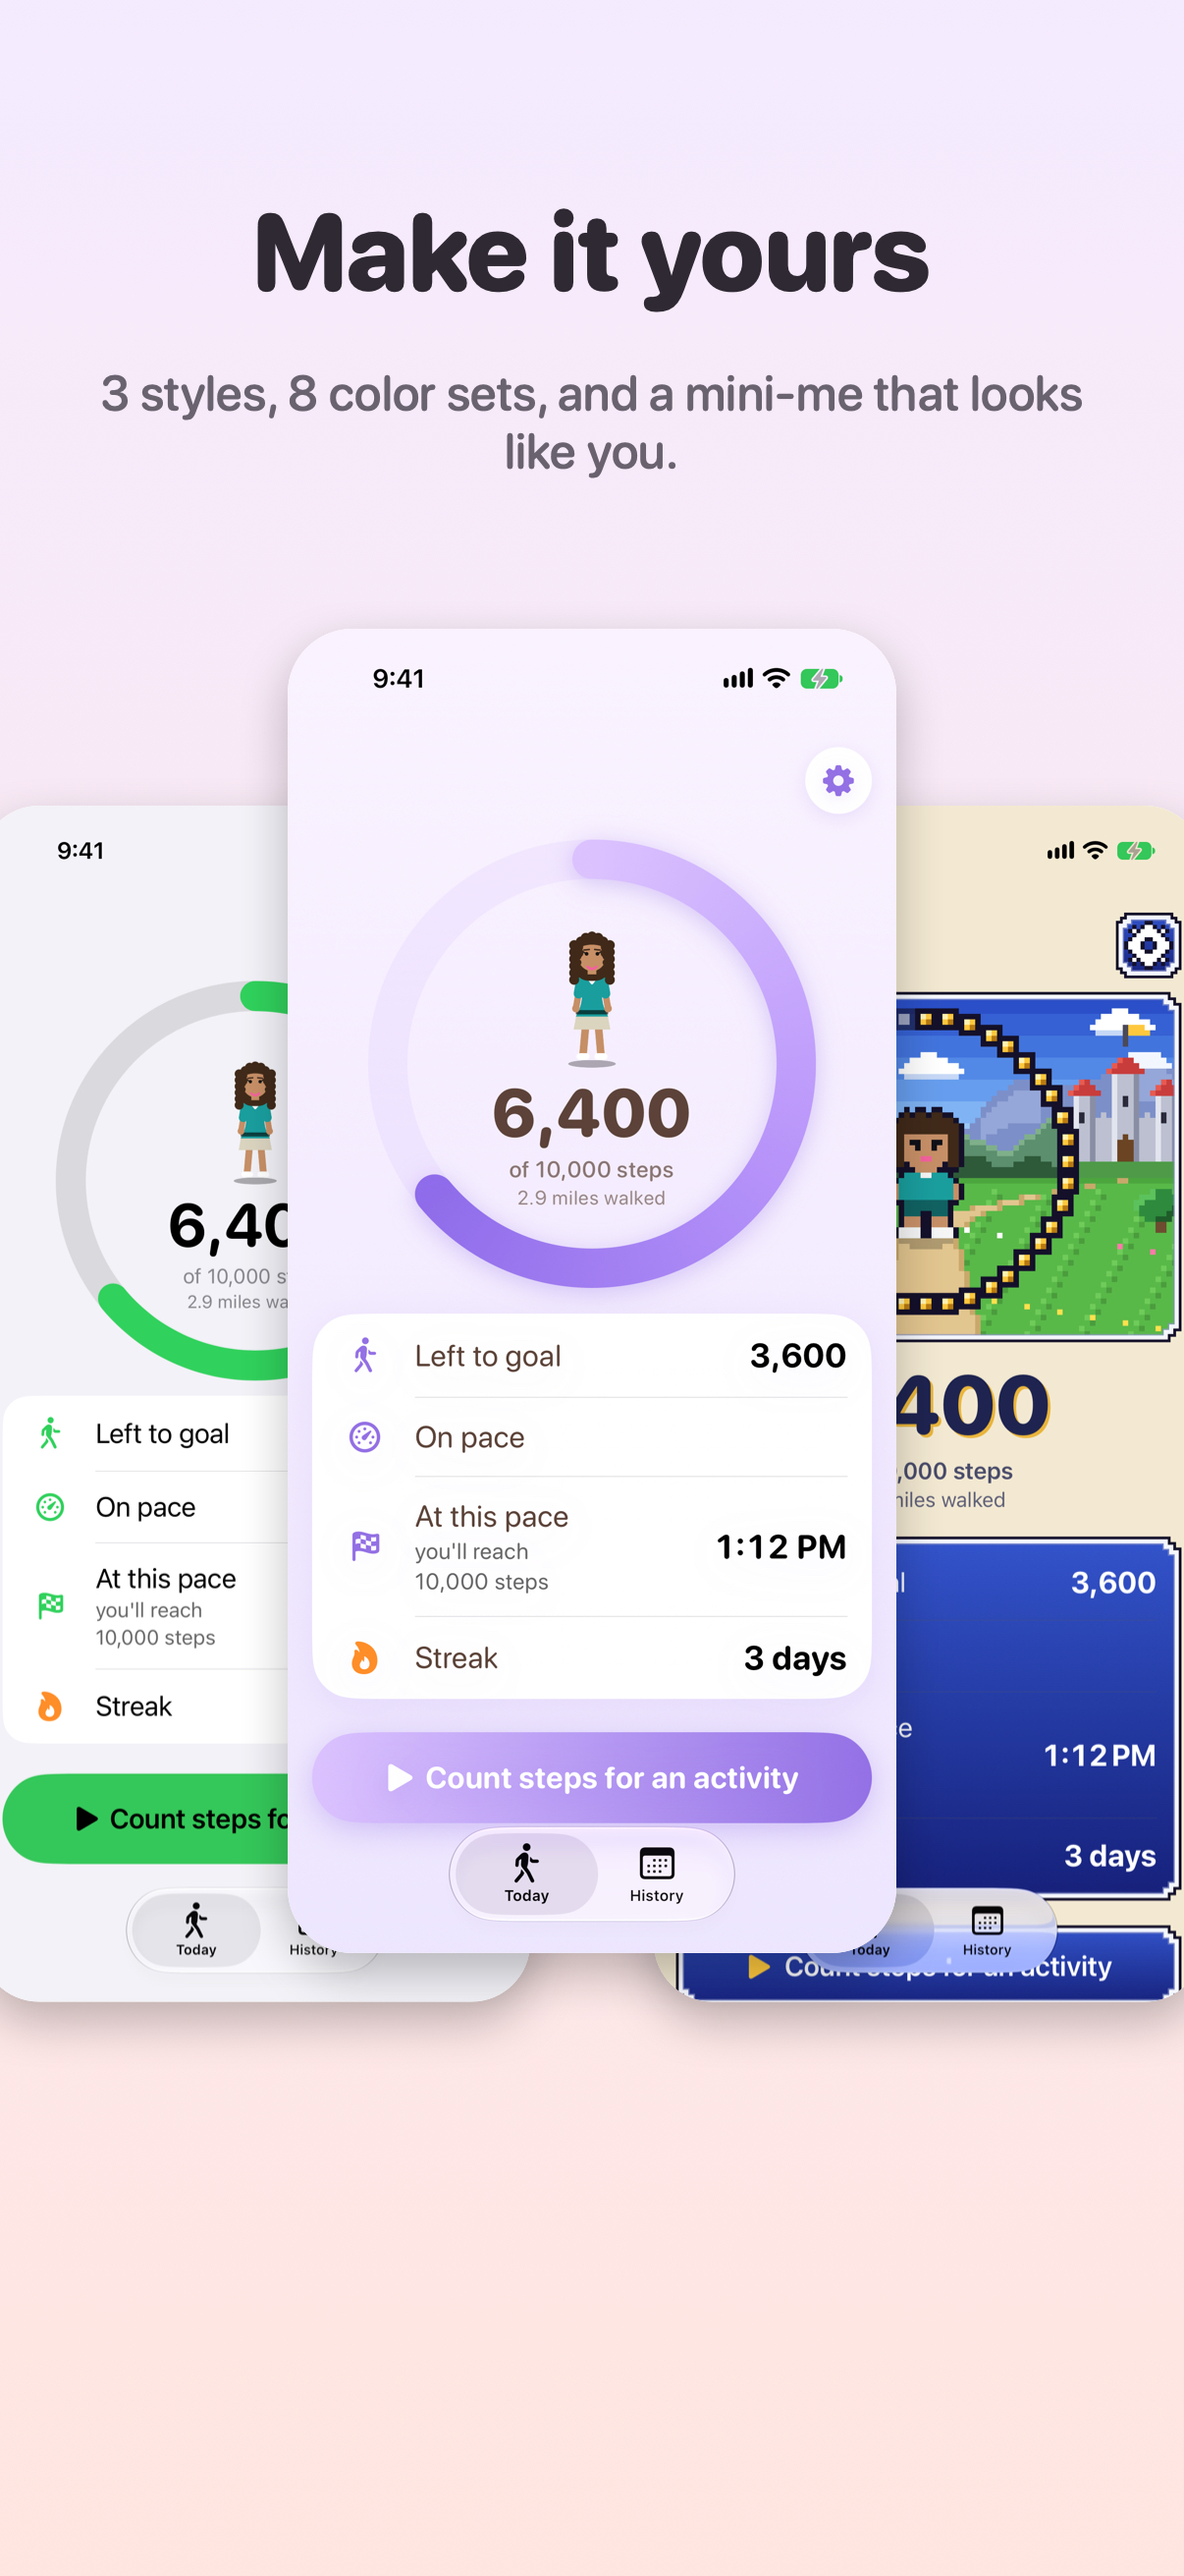
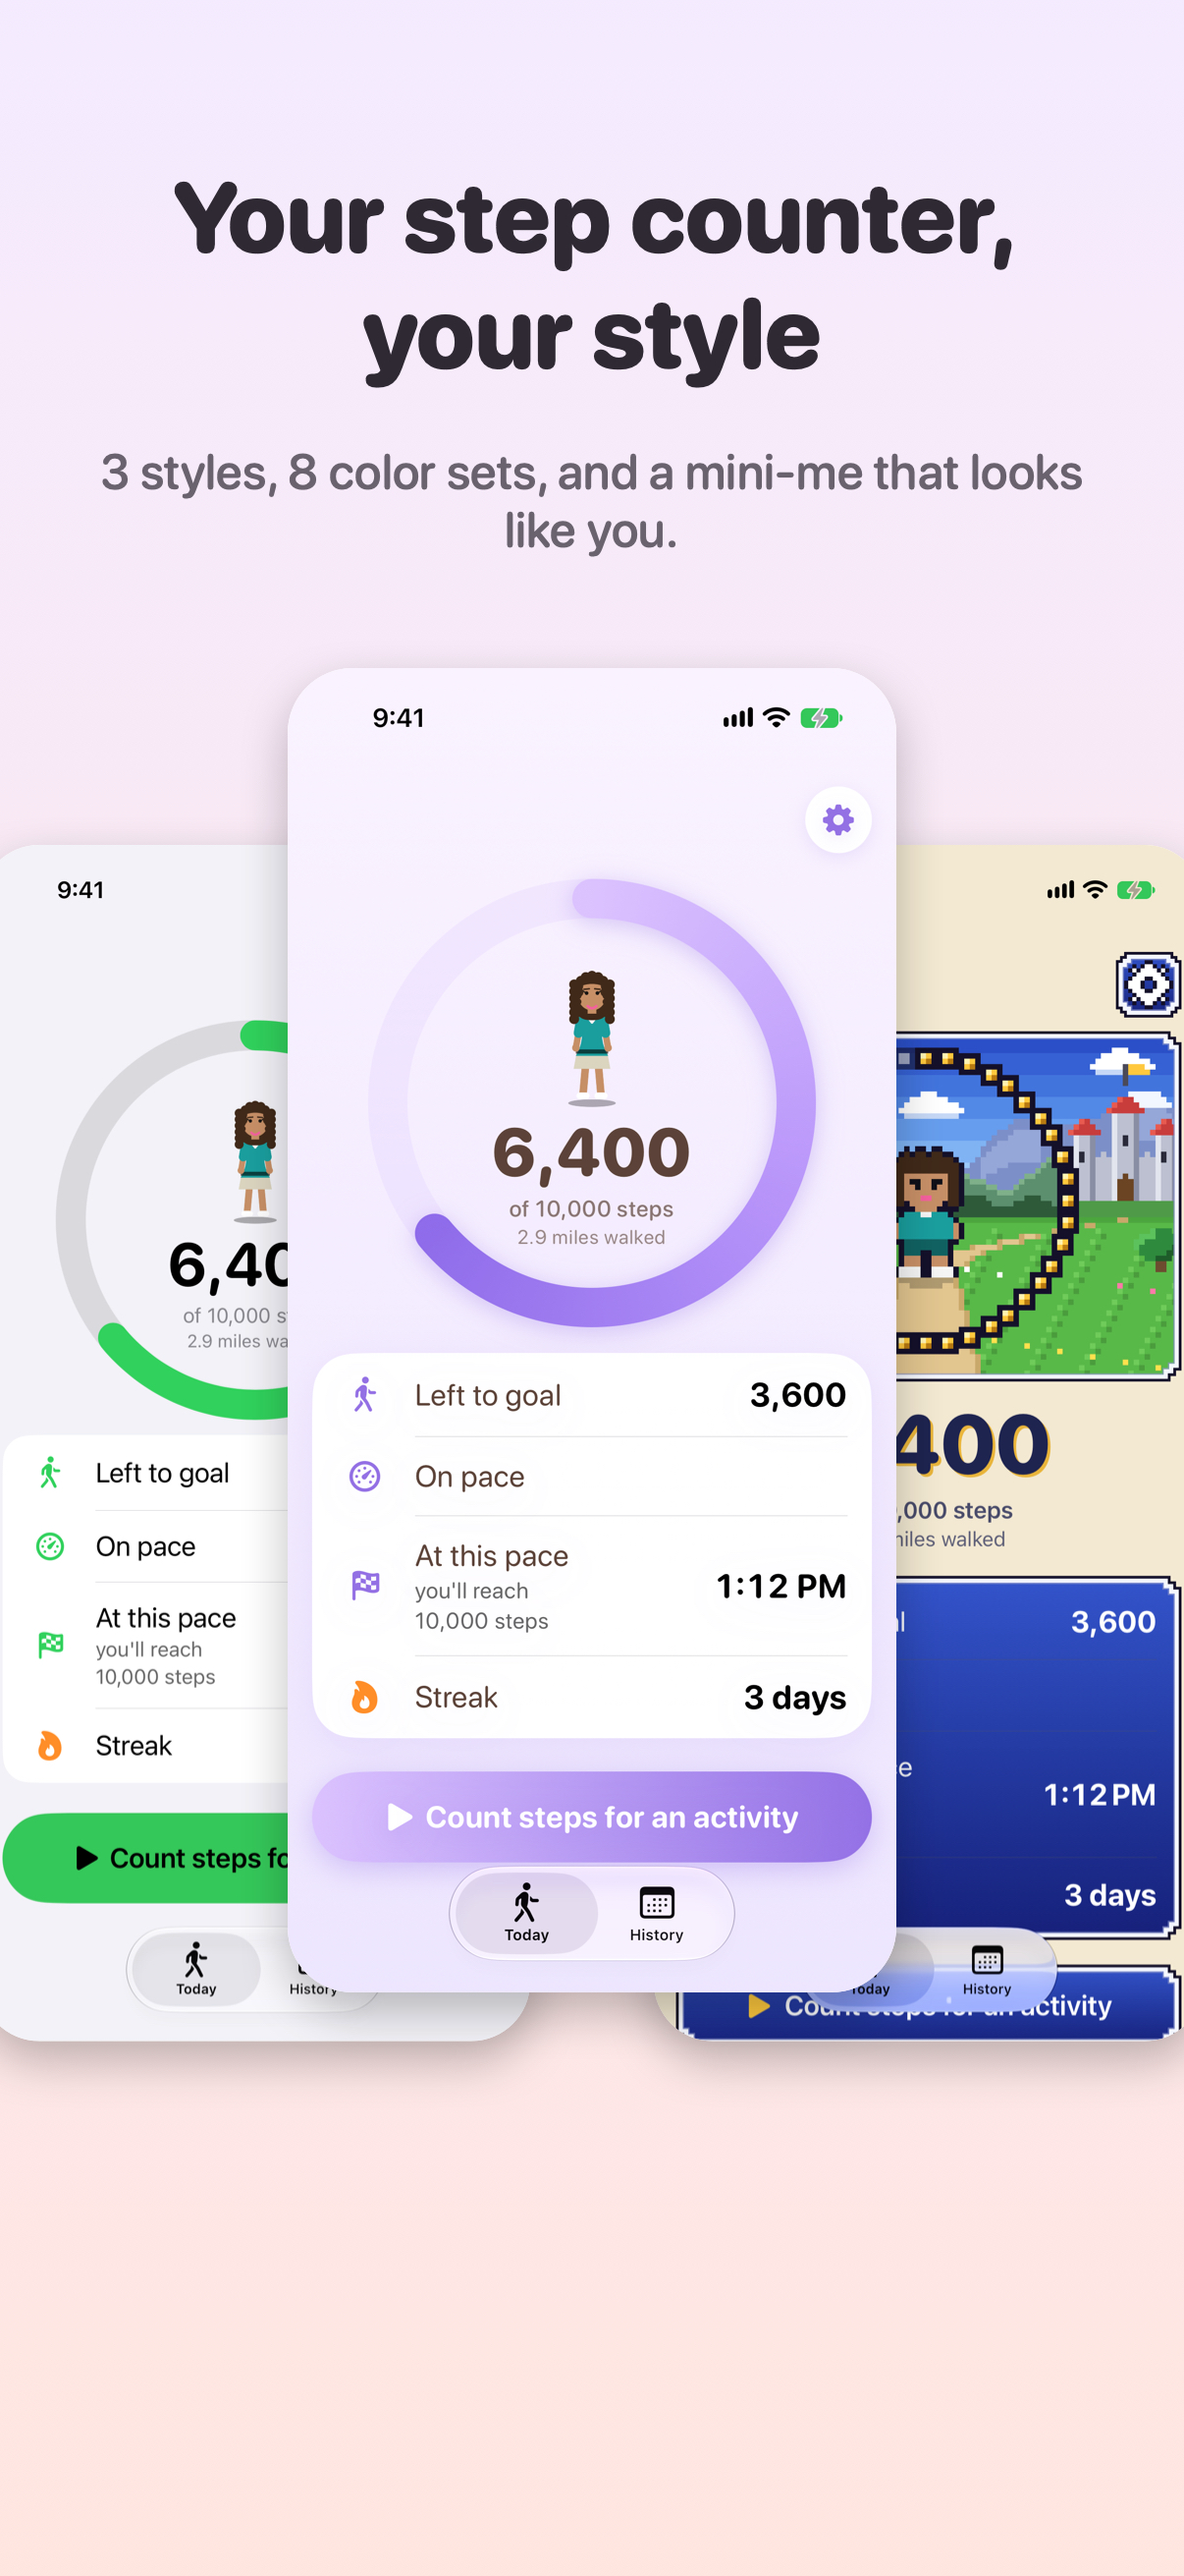
App Store screenshots: shorter headlines, Night red on iPhone + Watch, new Apple Watch slide

diff --git a/AppStore/listing.md b/AppStore/listing.md
@@ -1,6 +1,6 @@
 # OnPace: App Store listing (version 1.0)
 
-Copy each block into App Store Connect. Screenshots: `AppStore/iphone-1206x2622/` (6.3" box, in this order: styles, Night red, catch-up minutes, workouts) and `AppStore/watch/` (Ultra, 422×514).
+Copy each block into App Store Connect. Screenshots: `AppStore/iphone-1206x2622/` (6.3" box, in this order: styles, Night red on iPhone + Watch, catch-up minutes, workouts, Apple Watch) and `AppStore/watch/` (Ultra 422×514: Night red first, then Cozy, Clean minimal, 16-bit).
 
 ## App Information
 - **Name:** OnPace Step Tracker
